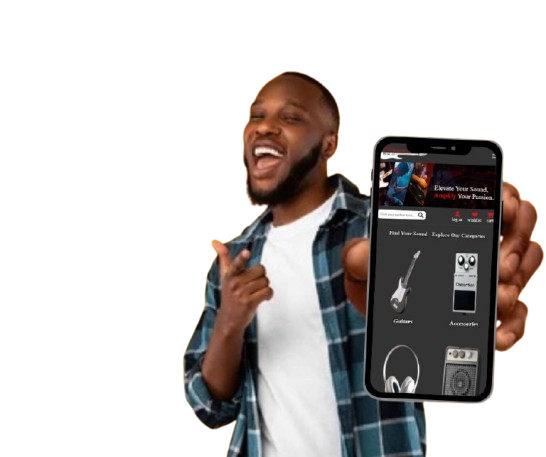
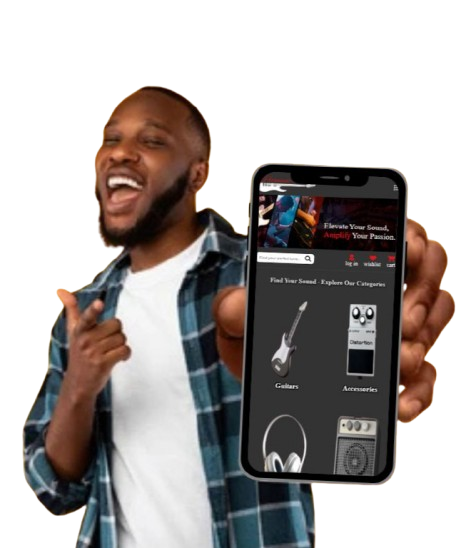
footer fix

diff --git a/Harmonic Central.css b/Harmonic Central.css
@@ -864,11 +864,12 @@ footer {
     margin-bottom: 50px;
     background: rgb(221,221,221);
     background: linear-gradient(0deg, rgba(221,221,221,1) 0%, rgba(103,103,103,1) 46%);
+    display: flex;
+    align-items: center;
+    justify-content: space-around;
 }
 
 .footer_img_phone {
-    position: relative;
-    left: 60%;
     height: 100%;
 }
 
@@ -876,9 +877,6 @@ footer {
     color: white;
     font-size: 40px;
     width: 30%;
-    position: relative;
-    left: 20%;
-    bottom: 60%;
 }
 
 .footer_content {
@@ -1213,14 +1211,9 @@ footer {
         height: auto;
     }
 
-    .footer_img_phone {
-        left: 14%;
-    }
-
     .footer_text{
         font-size: 20px;
         width: 37%;
-        left: 5%;
     }
 
     .footer_content {
@@ -1491,14 +1484,12 @@ footer {
     }
 
     .footer_img_phone {
-        left: 50%;
+
     }
 
     .footer_text{
         font-size: 27px;
         width: 40%;
-        left: 10%;
-        bottom: 65%;
     }
 
     .footer_content {
@@ -1724,14 +1715,12 @@ footer {
     }
 
     .footer_img_phone {
-        left: 60%;
+
     }
 
     .footer_text {
         font-size: 30px;
         width: 40%;
-        left: 12%;
-        bottom: 65%;
     }
 
     .footer_content {
@@ -1960,14 +1949,12 @@ footer {
     }
 
     .footer_img_phone {
-        left: 60%;
+
     }
 
     .footer_text{
         font-size: 33px;
         width: 30%;
-        left: 15%;
-        bottom: 70%;
     }
 
     .footer_content {

diff --git a/accessories catalog/accessories catalog.html b/accessories catalog/accessories catalog.html
@@ -142,8 +142,8 @@
     <footer>
 
         <div class="footer_img">
-            <img class="footer_img_phone" src="../images/footer/forfooter.png">
             <p class="footer_text">Stay Tuned - Get the Latest Gear, Deals & News!</p>
+            <img class="footer_img_phone" src="../images/footer/forfooter.png">
         </div>
         
         <div class="footer_content">

diff --git a/guitar catalog/guitar catalog.html b/guitar catalog/guitar catalog.html
@@ -184,8 +184,8 @@
     <footer>
 
         <div class="footer_img">
-            <img class="footer_img_phone" src="../images/footer/forfooter.png">
             <p class="footer_text">Stay Tuned - Get the Latest Gear, Deals & News!</p>
+            <img class="footer_img_phone" src="../images/footer/forfooter.png">
         </div>
         
         <div class="footer_content">

diff --git a/product page/Product Page.html b/product page/Product Page.html
@@ -290,8 +290,8 @@
     <footer>
 
         <div class="footer_img">
-            <img class="footer_img_phone" src="../images/footer/forfooter.png">
             <p class="footer_text">Stay Tuned - Get the Latest Gear, Deals & News!</p>
+            <img class="footer_img_phone" src="../images/footer/forfooter.png">
         </div>
         
         <div class="footer_content">

diff --git a/account/Account Page.html b/account/Account Page.html
@@ -117,8 +117,8 @@
 <footer>
 
     <div class="footer_img">
-        <img class="footer_img_phone" src="../images/footer/forfooter.png">
         <p class="footer_text">Stay Tuned - Get the Latest Gear, Deals & News!</p>
+        <img class="footer_img_phone" src="../images/footer/forfooter.png">
     </div>
     
     <div class="footer_content">

diff --git a/cart/Cart Page.html b/cart/Cart Page.html
@@ -196,8 +196,8 @@
 <footer>
 
     <div class="footer_img">
-        <img class="footer_img_phone" src="../images/footer/forfooter.png">
         <p class="footer_text">Stay Tuned - Get the Latest Gear, Deals & News!</p>
+        <img class="footer_img_phone" src="../images/footer/forfooter.png">
     </div>
     
     <div class="footer_content">

diff --git a/wishlist/Wishlist Page.html b/wishlist/Wishlist Page.html
@@ -132,8 +132,8 @@
 <footer>
 
     <div class="footer_img">
-        <img class="footer_img_phone" src="../images/footer/forfooter.png">
         <p class="footer_text">Stay Tuned - Get the Latest Gear, Deals & News!</p>
+        <img class="footer_img_phone" src="../images/footer/forfooter.png">
     </div>
     
     <div class="footer_content">

diff --git a/contact/Contact Page.html b/contact/Contact Page.html
@@ -84,8 +84,8 @@
 <footer>
 
     <div class="footer_img">
-        <img class="footer_img_phone" src="../images/footer/forfooter.png">
         <p class="footer_text">Stay Tuned - Get the Latest Gear, Deals & News!</p>
+        <img class="footer_img_phone" src="../images/footer/forfooter.png">
     </div>
     
     <div class="footer_content">

diff --git a/index.html b/index.html
@@ -258,8 +258,8 @@
 <footer>
 
 <div class="footer_img">
-    <img class="footer_img_phone" src="images/footer/forfooter.png">
     <p class="footer_text">Stay Tuned - Get the Latest Gear, Deals & News!</p>
+    <img class="footer_img_phone" src="images/footer/forfooter.png">
 </div>
 
 <div class="footer_content">
